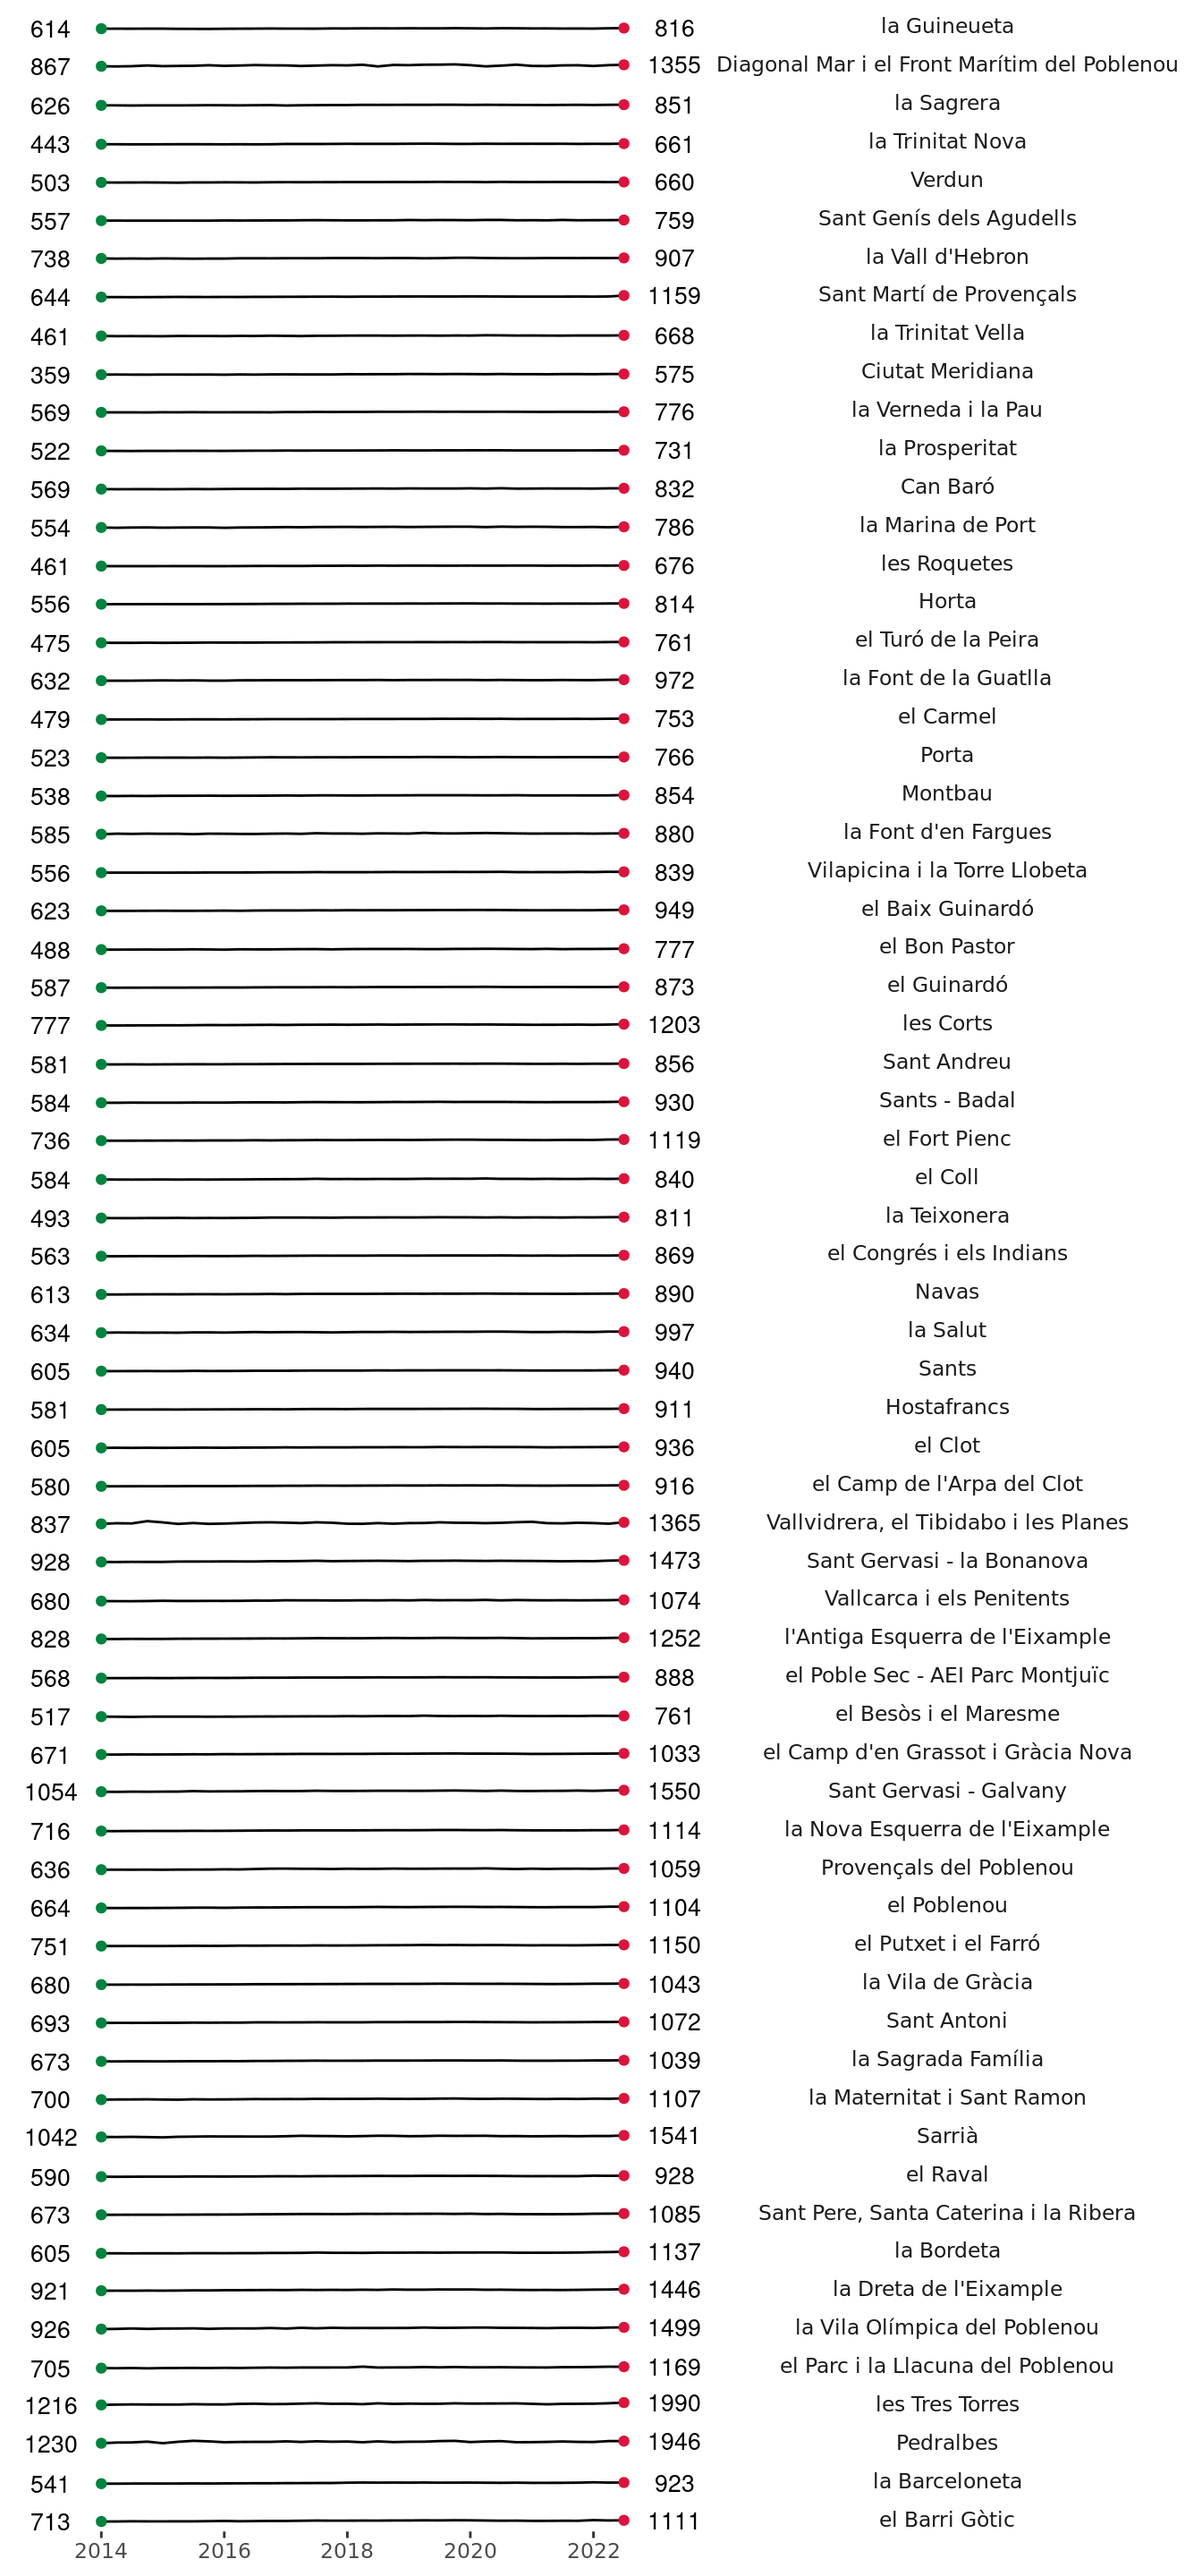
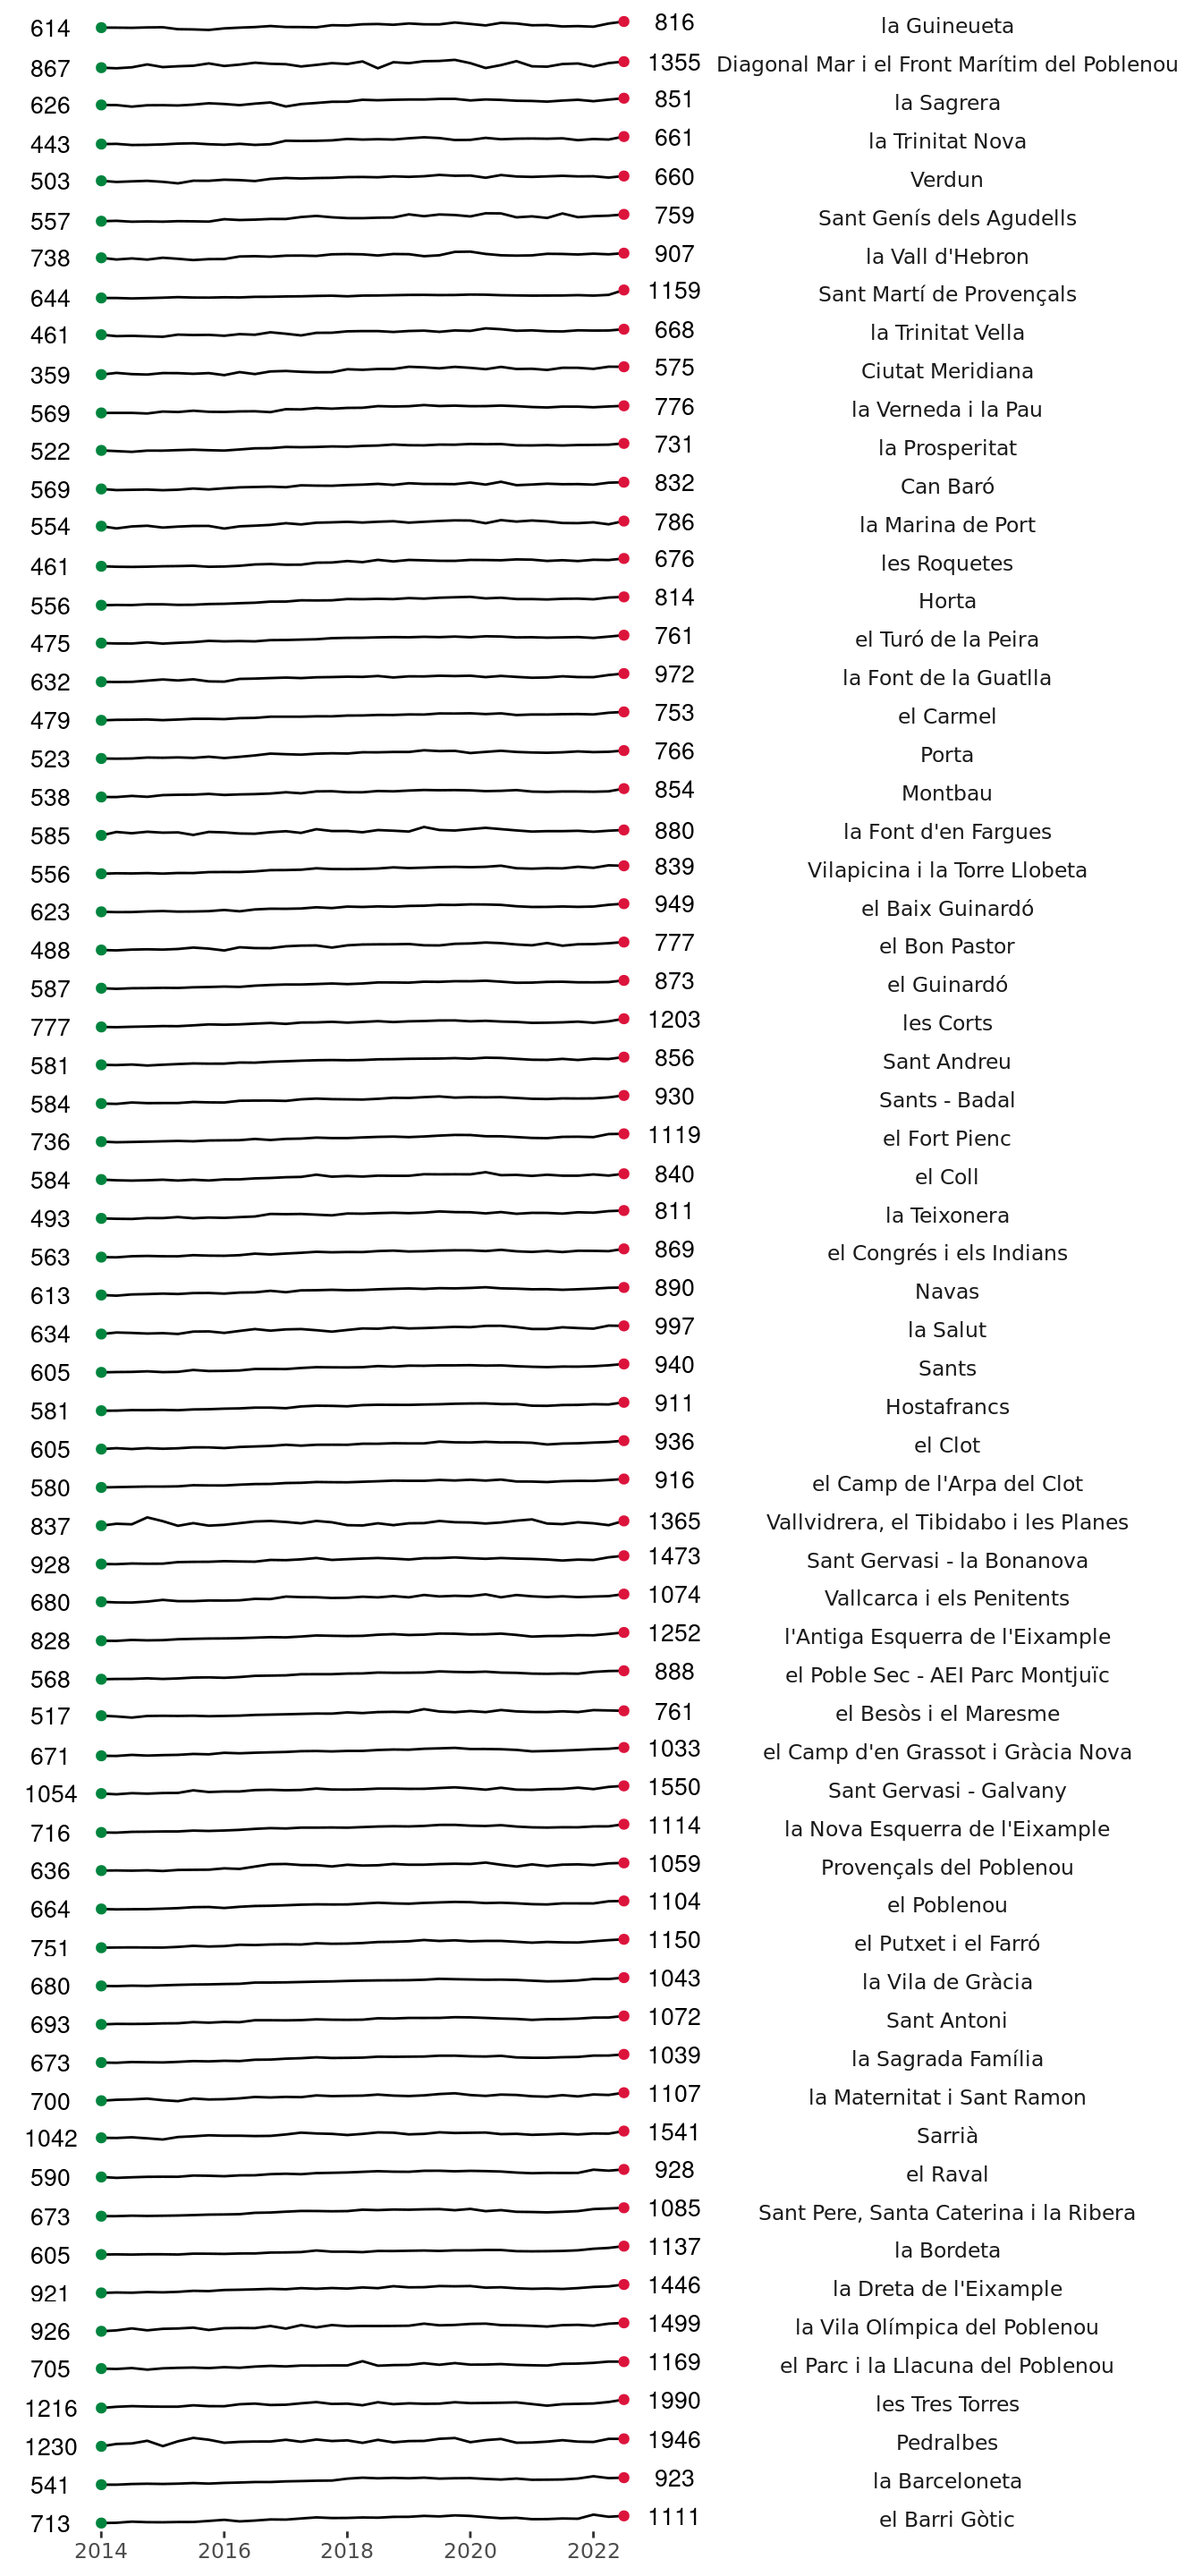
changed a plot

diff --git a/_site/posts/new/20221223.html b/_site/posts/new/20221223.html
@@ -338,15 +338,14 @@ code span.wa { color: #60a0b0; font-weight: bold; font-style: italic; } /* Warni
 <span id="cb2-43"><a href="#cb2-43" aria-hidden="true" tabindex="-1"></a>            <span class="at">nudge_x =</span> <span class="sc">-</span><span class="dv">300</span>, <span class="at">size =</span> <span class="fl">3.5</span>) <span class="sc">+</span> </span>
 <span id="cb2-44"><a href="#cb2-44" aria-hidden="true" tabindex="-1"></a>  <span class="fu">geom_text</span>(<span class="at">data =</span> ends, <span class="at">mapping =</span> <span class="fu">aes</span>(<span class="at">label =</span> <span class="fu">round</span>(lloguer,<span class="dv">0</span>)), </span>
 <span id="cb2-45"><a href="#cb2-45" aria-hidden="true" tabindex="-1"></a>            <span class="at">nudge_x =</span> <span class="dv">300</span>, <span class="at">size =</span> <span class="fl">3.5</span>) <span class="sc">+</span> </span>
-<span id="cb2-46"><a href="#cb2-46" aria-hidden="true" tabindex="-1"></a>    <span class="fu">scale_y_continuous</span>(<span class="at">expand =</span> <span class="fu">c</span>(<span class="dv">1</span>, <span class="dv">0</span>),</span>
-<span id="cb2-47"><a href="#cb2-47" aria-hidden="true" tabindex="-1"></a>                       <span class="at">limits =</span> <span class="fu">c</span>(<span class="dv">200</span>,<span class="dv">3000</span>)) <span class="sc">+</span></span>
-<span id="cb2-48"><a href="#cb2-48" aria-hidden="true" tabindex="-1"></a>  <span class="fu">facet_grid</span>(barri <span class="sc">~</span> ., <span class="at">scales =</span> <span class="st">"free_y"</span>) <span class="sc">+</span></span>
-<span id="cb2-49"><a href="#cb2-49" aria-hidden="true" tabindex="-1"></a>  ggthemes<span class="sc">::</span><span class="fu">theme_tufte</span>(<span class="at">base_family =</span> <span class="st">"Montserrat"</span>) <span class="sc">+</span> </span>
-<span id="cb2-50"><a href="#cb2-50" aria-hidden="true" tabindex="-1"></a>  <span class="fu">theme</span>(<span class="at">axis.title=</span><span class="fu">element_blank</span>(), </span>
-<span id="cb2-51"><a href="#cb2-51" aria-hidden="true" tabindex="-1"></a>        <span class="at">axis.text.y =</span> <span class="fu">element_blank</span>(),</span>
-<span id="cb2-52"><a href="#cb2-52" aria-hidden="true" tabindex="-1"></a>        <span class="at">strip.text.y =</span> <span class="fu">element_text</span>(<span class="at">angle =</span> <span class="dv">0</span>), <span class="co"># etiquetes horitzontals</span></span>
-<span id="cb2-53"><a href="#cb2-53" aria-hidden="true" tabindex="-1"></a>        <span class="at">text =</span> <span class="fu">element_text</span>(<span class="at">family =</span> <span class="st">"Montserrat"</span>),</span>
-<span id="cb2-54"><a href="#cb2-54" aria-hidden="true" tabindex="-1"></a>        <span class="at">axis.ticks.y =</span> <span class="fu">element_blank</span>()) </span></code><button title="Copy to Clipboard" class="code-copy-button"><i class="bi"></i></button></pre></div>
+<span id="cb2-46"><a href="#cb2-46" aria-hidden="true" tabindex="-1"></a>    <span class="fu">scale_y_continuous</span>(<span class="at">expand =</span> <span class="fu">c</span>(<span class="dv">1</span>, <span class="dv">0</span>)) <span class="sc">+</span></span>
+<span id="cb2-47"><a href="#cb2-47" aria-hidden="true" tabindex="-1"></a>  <span class="fu">facet_grid</span>(barri <span class="sc">~</span> ., <span class="at">scales =</span> <span class="st">"free_y"</span>) <span class="sc">+</span></span>
+<span id="cb2-48"><a href="#cb2-48" aria-hidden="true" tabindex="-1"></a>  ggthemes<span class="sc">::</span><span class="fu">theme_tufte</span>(<span class="at">base_family =</span> <span class="st">"Montserrat"</span>) <span class="sc">+</span> </span>
+<span id="cb2-49"><a href="#cb2-49" aria-hidden="true" tabindex="-1"></a>  <span class="fu">theme</span>(<span class="at">axis.title=</span><span class="fu">element_blank</span>(), </span>
+<span id="cb2-50"><a href="#cb2-50" aria-hidden="true" tabindex="-1"></a>        <span class="at">axis.text.y =</span> <span class="fu">element_blank</span>(),</span>
+<span id="cb2-51"><a href="#cb2-51" aria-hidden="true" tabindex="-1"></a>        <span class="at">strip.text.y =</span> <span class="fu">element_text</span>(<span class="at">angle =</span> <span class="dv">0</span>), <span class="co"># etiquetes horitzontals</span></span>
+<span id="cb2-52"><a href="#cb2-52" aria-hidden="true" tabindex="-1"></a>        <span class="at">text =</span> <span class="fu">element_text</span>(<span class="at">family =</span> <span class="st">"Montserrat"</span>),</span>
+<span id="cb2-53"><a href="#cb2-53" aria-hidden="true" tabindex="-1"></a>        <span class="at">axis.ticks.y =</span> <span class="fu">element_blank</span>()) </span></code><button title="Copy to Clipboard" class="code-copy-button"><i class="bi"></i></button></pre></div>
 </details>
 <div class="cell-output-display">
 <div class="quarto-figure quarto-figure-center">

diff --git a/_site/blog.html b/_site/blog.html
@@ -169,7 +169,7 @@ ul.task-list li input[type="checkbox"] {
 
 <div class="quarto-listing quarto-listing-container-default" id="listing-listing">
 <div class="list quarto-listing-default">
-<div class="quarto-post image-right" data-index="0" data-categories="OpenStreetMap,OpenData,Dades Obertes,R" data-listing-date-sort="1671750000000" data-listing-file-modified-sort="1671818329248" data-listing-reading-time-sort="15.07">
+<div class="quarto-post image-right" data-index="0" data-categories="OpenStreetMap,OpenData,Dades Obertes,R" data-listing-date-sort="1671750000000" data-listing-file-modified-sort="1671818594660" data-listing-reading-time-sort="14.945">
 <div class="thumbnail">
 <a href="./posts/new/20221223.html">
 <div class="thumbnail-image">
